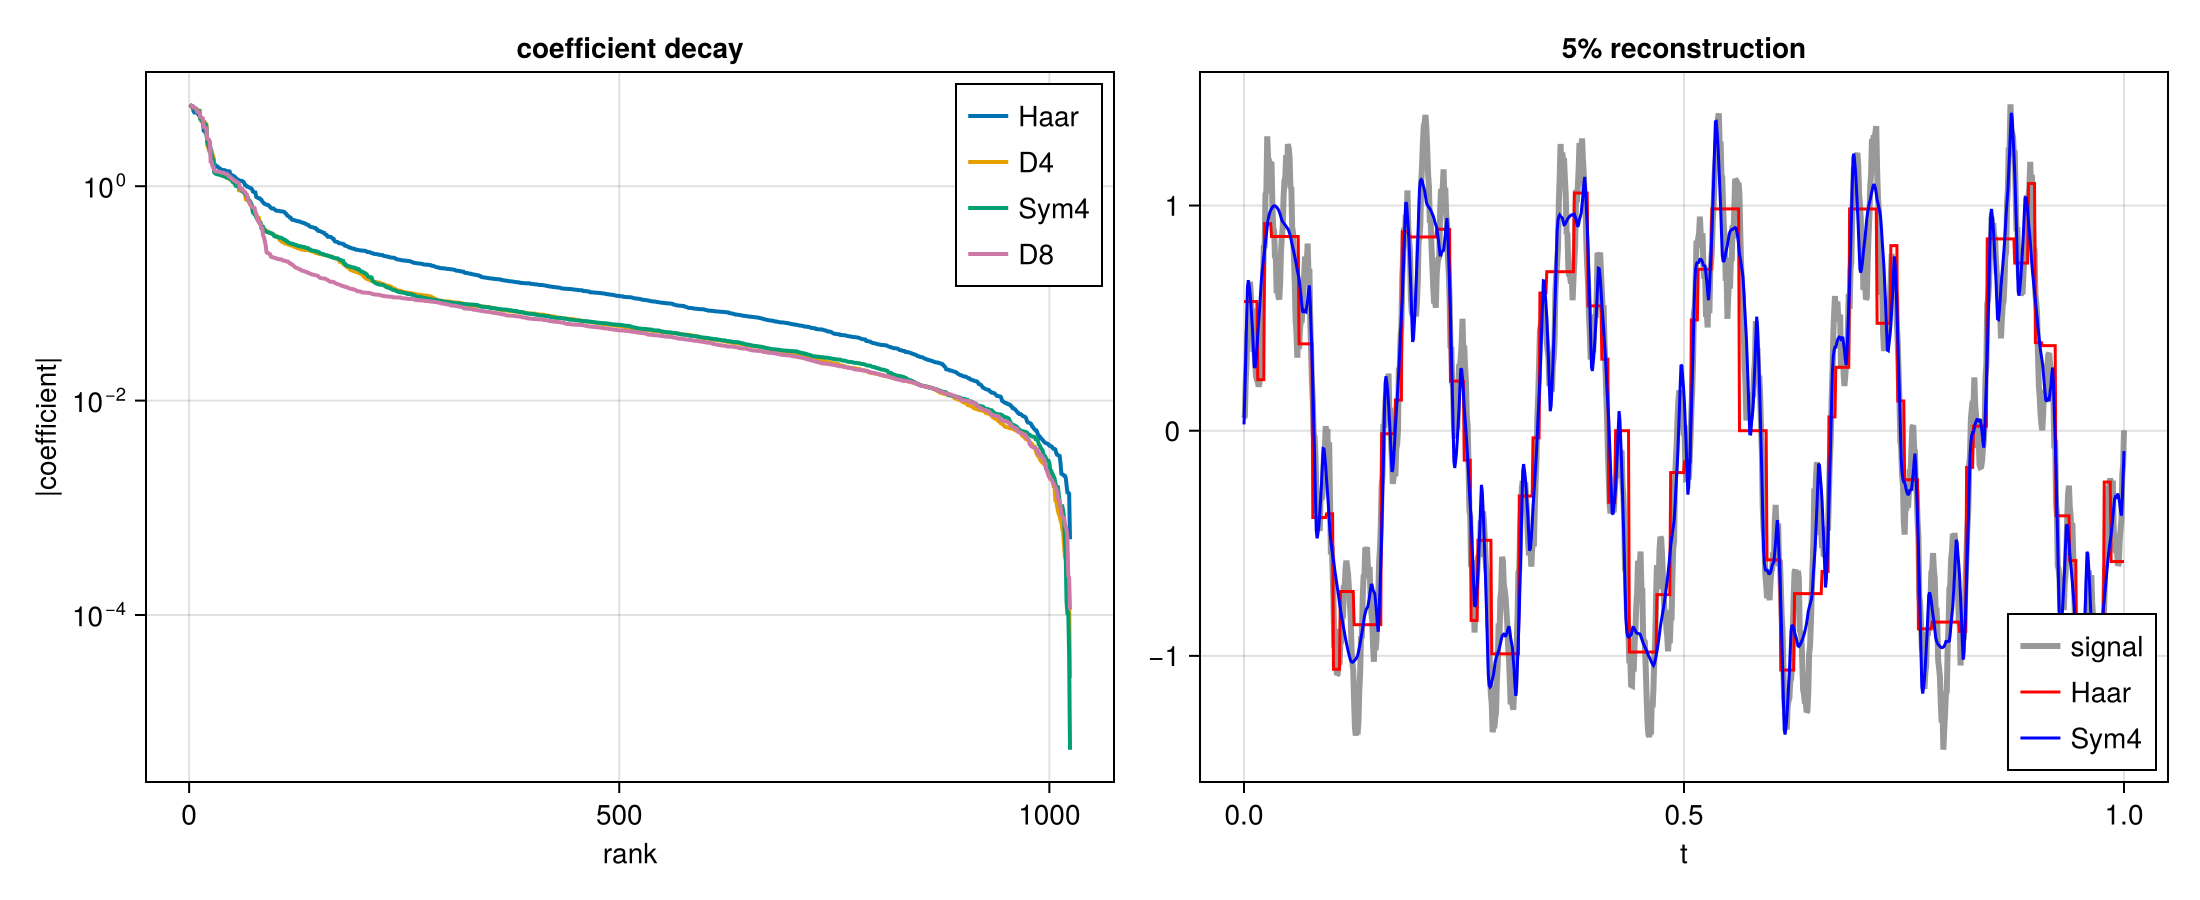
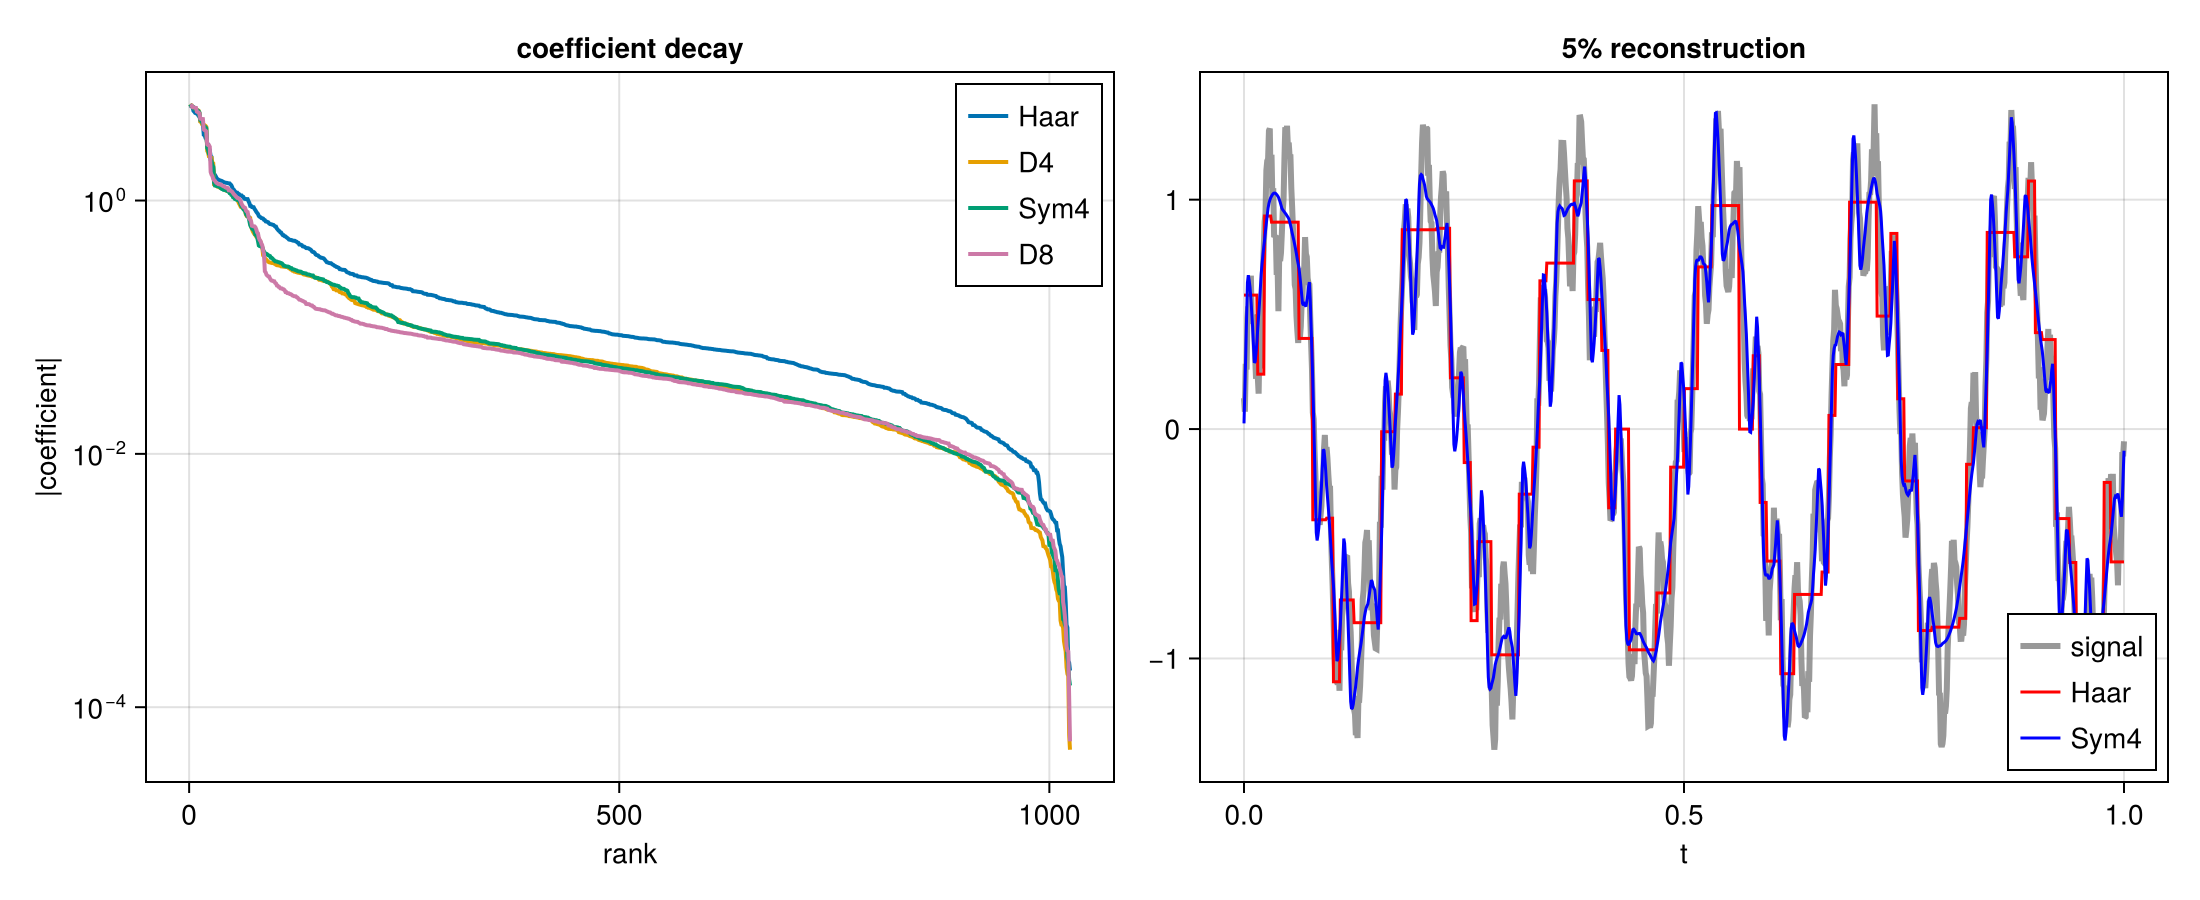
Docs: clearer phase-convention figures, one per dimension
The one-dimensional panel of conventions.png used a filtered noise signal,
so the rotation was hard to see. Replace the figure with two. The
one-dimensional figure transforms a rectangular pulse, which gives a clean,
localised detail response at each edge. The two-dimensional figure shows
the image, the aligned coefficients, and the difference between the two
conventions, which is zero in the approximation band and non-zero in every
detail band.

diff --git a/docs/src/conventions.md b/docs/src/conventions.md
@@ -27,14 +27,25 @@ idwt!(a, WT_D4, 3; convention = :aligned)      # round trips
 anything at run time. Use `:aligned` unless you need to match Wavelets.jl
 or reproduce a coefficient layout computed elsewhere.
 
-![The level-1 detail band under both conventions, and the difference of a two-dimensional level-1 transform.](assets/conventions.png)
+## One dimension
 
-The left panel shows the level-1 detail band of a one-dimensional D8
-transform under both conventions; the two sequences are the same, rotated
-by three samples. The right panel is the difference of a two-dimensional
-level-1 D4 transform. The approximation band in the top-left corner is
-exactly zero, because the scaling coefficients agree; the detail bands are
-where the two conventions part ways.
+A rectangular pulse, with its level-1 detail coefficients under both
+conventions. The pulse has two edges, so the detail band has two responses.
+Each response is the same shape in both conventions, rotated by three
+coefficients.
+
+![The level-1 detail band of a one-dimensional transform under both conventions.](assets/phase-1d.png)
+
+## Two dimensions
+
+The same comparison on an image. The first panel is the image. The second
+is the aligned level-1 coefficients, with the approximation band in the
+top-left corner. The third is the difference between the two conventions.
+It is exactly zero in the approximation band, because the scaling
+coefficients agree, and non-zero in every detail band, because those
+coefficients are rotated.
+
+![The image, the aligned coefficients, and the difference between the conventions for a two-dimensional transform.](assets/phase-2d.png)
 
 ## The wavelet under each convention
 
